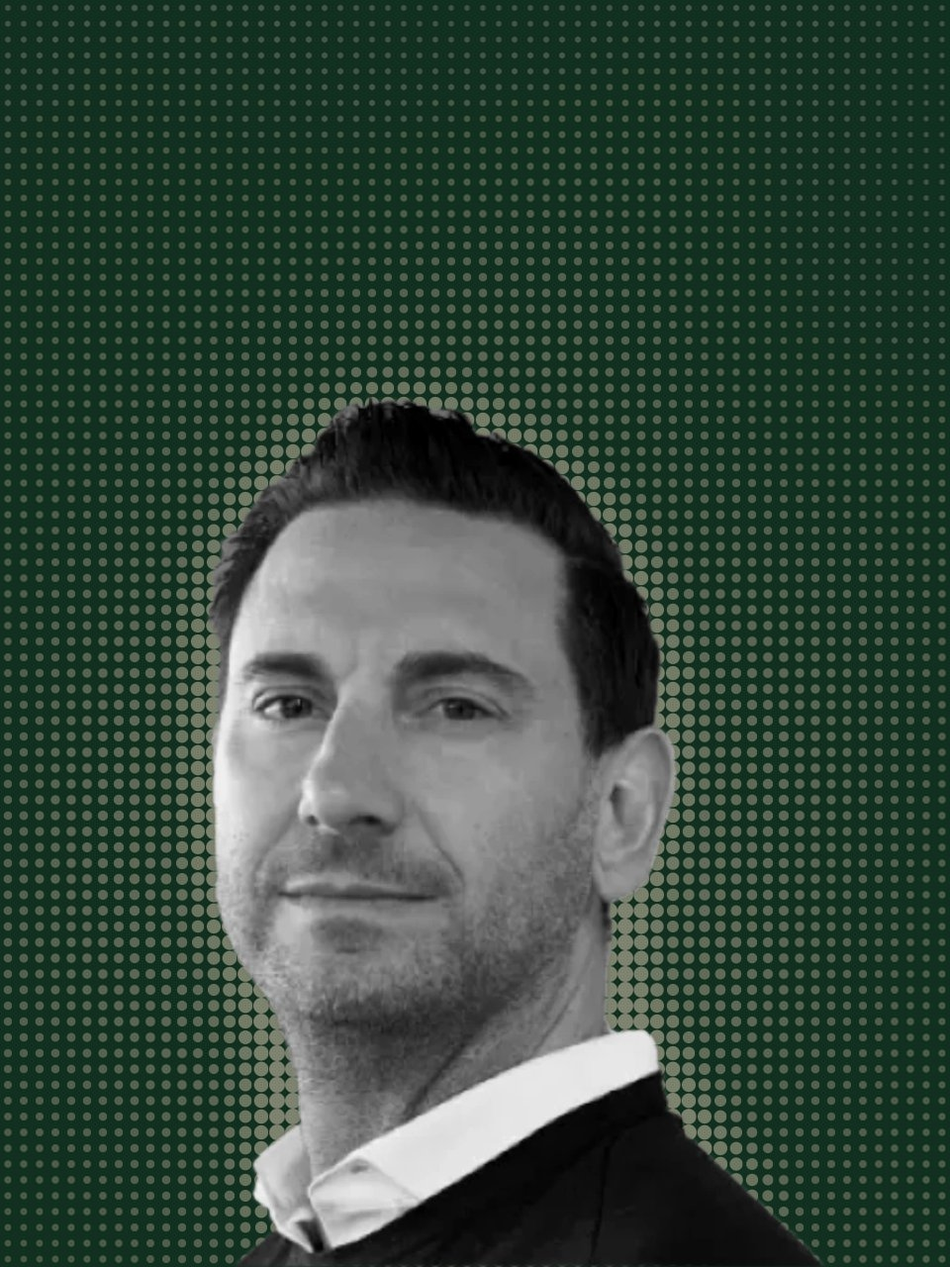
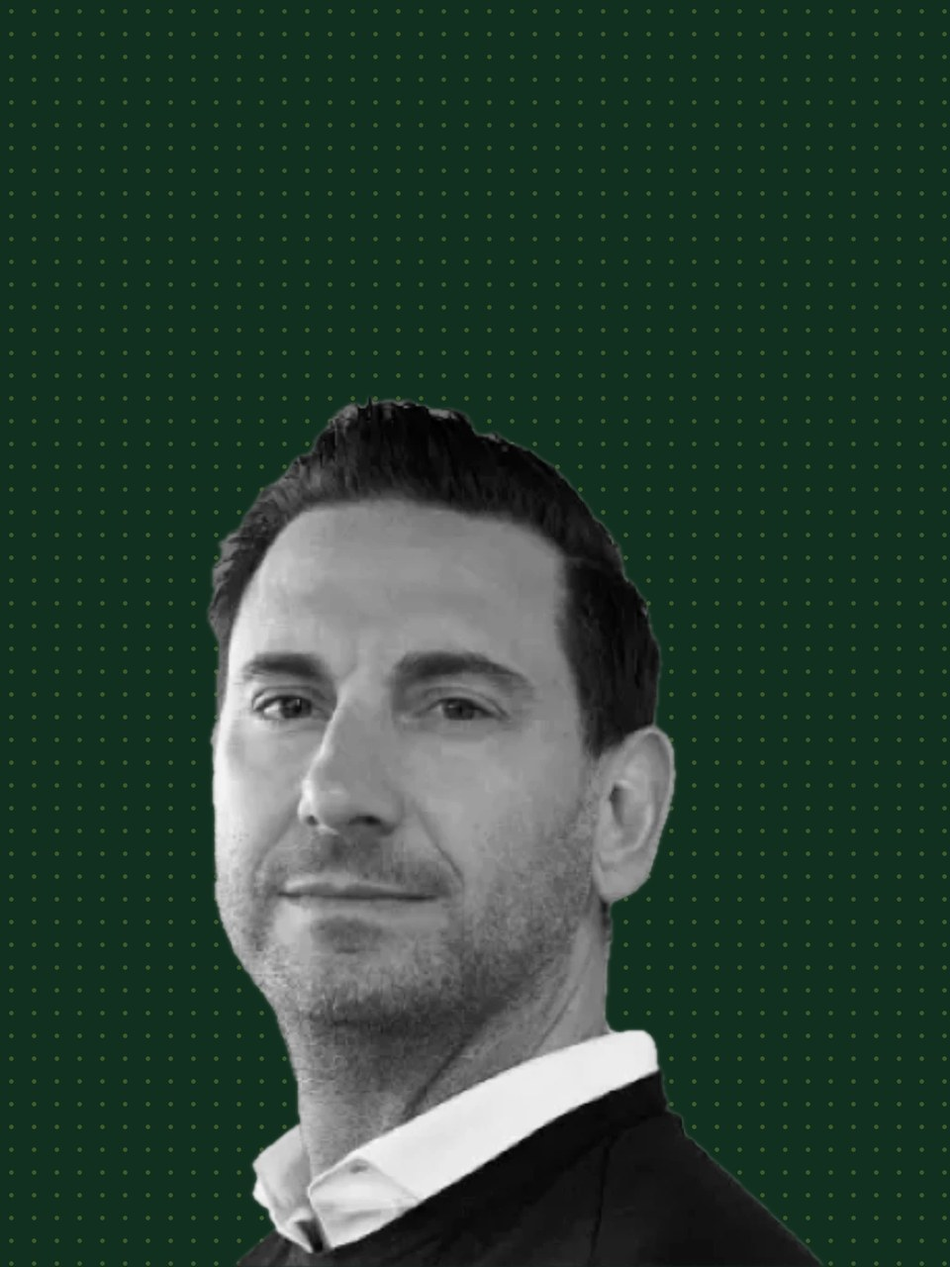
Site pass 9 Nov: lighter dots in team portraits; lit glow keeps last pointer position; hero text entrance on Capital and Prime; finished investment strategy box; Prime founders cards with halftone illustrations; Anthropic breadcrumb and charts in the new chart style

Changed region(s): [[0.0, 0.0, 1.0, 1.0]]

diff --git a/anthropic.html b/anthropic.html
@@ -146,8 +146,17 @@ body{margin:0}
 .white{background:var(--linen);color:var(--green)}.white .lead{color:var(--mute)}
 .illus{display:inline-flex;align-self:flex-start;align-items:center;gap:8px;padding:6px 12px;border:1px dashed var(--rust);border-radius:999px;font:500 12px/1 var(--sans);letter-spacing:.04em;text-transform:uppercase;color:var(--rust)}
 .green .illus,#sector .illus{border-color:#DE8582;color:#DE8582}
-.crumb{font:500 13px/1 var(--sans);letter-spacing:.06em;text-transform:uppercase;color:var(--sand)}
-.crumb a{color:inherit;text-decoration:none}.crumb a:hover{color:var(--linen)}
+/* breadcrumb: pinned to the top of the hero copy column; links turn SL Yellow and draw an underline on hover */
+.hero__body{position:relative}
+.crumb{position:absolute;top:128px;left:max(64px,env(safe-area-inset-left,0px));display:flex;align-items:center;gap:10px;margin:0;padding:0;list-style:none;font:500 13px/1 var(--sans);letter-spacing:.06em;text-transform:uppercase;color:var(--sand)}
+.crumb li{display:flex;align-items:center;gap:10px}
+.crumb li+li::before{content:"/";color:rgba(245,243,239,.35)}
+.crumb a{position:relative;color:inherit;text-decoration:none;padding:4px 0;transition:color .25s ease}
+.crumb a::after{content:"";position:absolute;left:0;right:0;bottom:0;height:1px;background:var(--yel);transform:scaleX(0);transform-origin:left;transition:transform .35s cubic-bezier(.2,.7,.2,1)}
+.crumb a:hover,.crumb a:focus-visible{color:var(--yel)}
+.crumb a:hover::after,.crumb a:focus-visible::after{transform:scaleX(1)}
+.crumb [aria-current]{color:var(--linen)}
+@media (max-width:900px){.crumb{top:108px;left:20px}}
 
 /* hero card */
 .hero__media{background:#12301F}
@@ -176,16 +185,21 @@ body{margin:0}
 /* charts */
 .chart-wrap{display:grid;grid-template-columns:minmax(0,7fr) minmax(0,5fr);gap:56px;align-items:start}
 .chart{background:linear-gradient(rgba(203,191,168,.3),rgba(203,191,168,.3)) #F5F3EF;border:1px solid rgba(122,132,98,.35);border-radius:12px;padding:28px 28px 20px}
-.light .chart{background:linear-gradient(rgba(203,191,168,.3),rgba(203,191,168,.3)) #F5F3EF}
-.white .chart{background:var(--linen)}
+.light .chart{background:#FFFFFF;border-color:rgba(18,48,31,.12)}
+.white .chart{background:#FFFFFF;border-color:rgba(18,48,31,.12)}
 .chart h4{font:500 15px/1.3 var(--sans);margin:0 0 18px;color:var(--mute)}
+/* chart guide (9 Nov): eyebrow names the measure, the headline states the finding, a source line closes */
+.chart .clab{display:block;font:500 11px/16px var(--sans);letter-spacing:.07em;text-transform:uppercase;color:var(--mute)}
+.chart .cfind{font:400 26px/1.15 var(--serif);margin:6px 0 20px;color:var(--green)}
+.chart .csrc{font-size:12px;color:var(--mute);margin-top:12px}
+.sector .chart .clab,.sector .chart .csrc{color:rgba(245,243,239,.6)}.sector .chart .cfind{color:var(--linen)}
 .chart svg{display:block;width:100%;height:auto;overflow:visible}
 .chart .ax{stroke:rgba(18,48,31,.15);stroke-width:1}
 .chart .lb{font:500 12px var(--sans);fill:var(--mute)}
 .chart .vl{font:400 15px var(--serif);fill:var(--green)}
-.bar{fill:#DE8582;transition:fill .2s}
-.bar.hi{fill:#A14E2B}
-.bar:hover,.bar.on{fill:#77581C}
+.bar{transition:opacity .2s}
+.hov .bar:not(.on){opacity:.35}
+.hov .vl:not(.on){opacity:.35;transition:opacity .2s}
 .grow{transform-box:fill-box;transform-origin:bottom;transform:scaleY(0);transition:transform 1.1s cubic-bezier(.2,.7,.2,1);transition-delay:calc(var(--i)*120ms)}
 .seen .grow{transform:none}
 .drawl{stroke-dasharray:1;stroke-dashoffset:1;transition:stroke-dashoffset 1.8s cubic-bezier(.4,0,.2,1) .2s}
@@ -211,21 +225,21 @@ body{margin:0}
 .sector .chart .ax{stroke:rgba(245,243,239,.15)}
 .sector .chart .lb{fill:var(--sand)}
 .sector .chart .vl{fill:var(--linen)}
-.sector .bar{fill:#DE8582}.sector .bar.hi{fill:#ECAC5F}.sector .bar:hover{fill:#E9D574}
+
 
 /* phase 2 */
 .p2head{display:flex;flex-wrap:wrap;align-items:center;gap:14px;margin-bottom:48px}
 .p2head .t{flex:0 0 100%;margin:0}
 .tag{display:inline-block;align-self:flex-start;padding:6px 12px;border-radius:999px;background:rgba(18,48,31,.1);color:var(--green);font:500 12px/1 var(--sans);letter-spacing:.04em;text-transform:uppercase}
 .p2{display:grid;grid-template-columns:repeat(3,minmax(0,1fr));gap:28px}
-.p2box{background:linear-gradient(rgba(203,191,168,.3),rgba(203,191,168,.3)) #F5F3EF;border:1px solid rgba(122,132,98,.35);border-radius:12px;padding:28px;display:flex;flex-direction:column;gap:16px}
+.p2box{background:#FFFFFF;border:1px solid rgba(18,48,31,.12);border-radius:12px;padding:28px;display:flex;flex-direction:column;gap:16px}
 .p2box h3{font:400 28px/1.15 var(--serif)}
 .p2box dl{margin:0}
 .p2box dl div{display:flex;justify-content:space-between;padding:10px 0;font-size:15.5px}
 .p2box dt{color:var(--mute)}.p2box dd{margin:0}
-.split-bar{display:flex;height:44px;border-radius:6px;overflow:hidden}
+.split-bar{display:flex;gap:2px;height:44px}
 .split-bar span{display:grid;place-items:center;font:500 14px var(--sans);transition:flex-grow 1.2s cubic-bezier(.2,.7,.2,1)}
-.split-bar .b{background:var(--yel);color:var(--on-yel);flex-grow:1}.split-bar .s{background:var(--green);color:var(--linen);flex-grow:1}
+.split-bar span{border-radius:4px}.split-bar .b{background:#DE8582;color:var(--green);flex-grow:1}.split-bar .s{background:#A14E2B;color:var(--linen);flex-grow:1}
 .seen .split-bar .b{flex-grow:62}.seen .split-bar .s{flex-grow:38}
 .p2box .acts{display:flex;gap:12px;margin-top:auto}
 .btn-g{background:var(--green);border-color:var(--green);color:var(--linen)}.btn-g:hover{box-shadow:0 0 0 4px rgba(18,48,31,.14)}
@@ -293,7 +307,7 @@ a.btn{text-decoration:none}
   <!-- 1. Hero: copy left; right, an AI halftone with the company card on it -->
   <section class="hero">
     <div class="hero__body">
-      <span class="crumb"><a href="companies.html#directory">Companies</a> / <a href="companies.html#directory">AI</a> / Anthropic</span>
+      <nav aria-label="Breadcrumb"><ol class="crumb"><li><a href="companies.html">Companies</a></li><li><a href="companies.html#directory">AI</a></li><li><span aria-current="page">Anthropic</span></li></ol></nav>
       <h1>Own Anthropic, before it goes public.</h1>
       <p class="lead">Get introduced to existing holders of Anthropic interests. Introductions are limited to qualified participants, and close when the company lists.</p>
       <div class="hero__act"><a class="btn btn-o" href="#funding">See the funding history</a></div>
@@ -329,7 +343,7 @@ a.btn{text-decoration:none}
     <div class="wrap">
       <div class="head"><div style="display:flex;flex-direction:column;gap:16px"><span class="illus">Illustrative figures, not real data</span><h2 class="t" style="margin:0">Funding history</h2></div><p class="lead">Rounds as publicly reported. Amounts and lead investors from public sources.</p></div>
       <div class="chart-wrap" data-seen>
-        <div class="chart"><h4>Amount raised per round</h4><svg viewBox="0 -10 600 320" role="img" aria-label="Illustrative chart" id="fundChart"><line class="ax" x1="0" y1="280" x2="600" y2="280"/><g data-i="0"><rect class="bar grow" style="--i:0" x="35.5" y="272.2" width="65.0" height="7.8" rx="3"><title>A · 2021: $124M</title></rect><text class="vl fade" x="68.0" y="262.2" text-anchor="middle">$124M</text><text class="lb" x="68.0" y="302" text-anchor="middle">A · 2021</text></g><g data-i="1"><rect class="bar grow" style="--i:1" x="151.5" y="243.6" width="65.0" height="36.4" rx="3"><title>B · 2022: $580M</title></rect><text class="vl fade" x="184.0" y="233.6" text-anchor="middle">$580M</text><text class="lb" x="184.0" y="302" text-anchor="middle">B · 2022</text></g><g data-i="2"><rect class="bar grow" style="--i:2" x="267.5" y="251.8" width="65.0" height="28.2" rx="3"><title>C · 2023: $450M</title></rect><text class="vl fade" x="300.0" y="241.8" text-anchor="middle">$450M</text><text class="lb" x="300.0" y="302" text-anchor="middle">C · 2023</text></g><g data-i="3"><rect class="bar grow" style="--i:3" x="383.5" y="232.9" width="65.0" height="47.1" rx="3"><title>D · 2024: $750M</title></rect><text class="vl fade" x="416.0" y="222.9" text-anchor="middle">$750M</text><text class="lb" x="416.0" y="302" text-anchor="middle">D · 2024</text></g><g data-i="4"><rect class="bar grow hi" style="--i:4" x="499.5" y="60.4" width="65.0" height="219.6" rx="3"><title>E · 2025: $3.5B</title></rect><text class="vl fade" x="532.0" y="50.4" text-anchor="middle">$3.5B</text><text class="lb" x="532.0" y="302" text-anchor="middle">E · 2025</text></g></svg></div>
+        <div class="chart"><span class="clab">Funding · Amount raised per round</span><h4 class="cfind">Series E was larger than every earlier round combined</h4><svg viewBox="0 -10 600 320" role="img" aria-label="Illustrative chart" id="fundChart"><line class="ax" x1="0" y1="280" x2="600" y2="280"/><g data-i="0"><path class="bar grow" style="--i:0;fill:#DE8582" d="M35.5,280.0V276.2Q35.5,272.2 39.5,272.2H96.5Q100.5,272.2 100.5,276.2V280.0Z"><title>A · 2021: $124M</title></path><text class="vl fade" x="68.0" y="262.2" text-anchor="middle">$124M</text><text class="lb" x="68.0" y="302" text-anchor="middle">A · 2021</text></g><g data-i="1"><path class="bar grow" style="--i:1;fill:#A14E2B" d="M151.5,280.0V247.6Q151.5,243.6 155.5,243.6H212.5Q216.5,243.6 216.5,247.6V280.0Z"><title>B · 2022: $580M</title></path><text class="vl fade" x="184.0" y="233.6" text-anchor="middle">$580M</text><text class="lb" x="184.0" y="302" text-anchor="middle">B · 2022</text></g><g data-i="2"><path class="bar grow" style="--i:2;fill:#ECAC5F" d="M267.5,280.0V255.8Q267.5,251.8 271.5,251.8H328.5Q332.5,251.8 332.5,255.8V280.0Z"><title>C · 2023: $450M</title></path><text class="vl fade" x="300.0" y="241.8" text-anchor="middle">$450M</text><text class="lb" x="300.0" y="302" text-anchor="middle">C · 2023</text></g><g data-i="3"><path class="bar grow" style="--i:3;fill:#77581C" d="M383.5,280.0V236.9Q383.5,232.9 387.5,232.9H444.5Q448.5,232.9 448.5,236.9V280.0Z"><title>D · 2024: $750M</title></path><text class="vl fade" x="416.0" y="222.9" text-anchor="middle">$750M</text><text class="lb" x="416.0" y="302" text-anchor="middle">D · 2024</text></g><g data-i="4"><path class="bar grow" style="--i:4;fill:#E9D574" d="M499.5,280.0V64.4Q499.5,60.4 503.5,60.4H560.5Q564.5,60.4 564.5,64.4V280.0Z"><title>E · 2025: $3.5B</title></path><text class="vl fade" x="532.0" y="50.4" text-anchor="middle">$3.5B</text><text class="lb" x="532.0" y="302" text-anchor="middle">E · 2025</text></g></svg><p class="csrc">Source: public reports. Illustrative.</p></div>
         <ol class="rounds" id="rounds"><li data-i="4"><span class="d">Mar 2025</span><div><h3>Series E</h3><p>Led by [investor]</p></div><span class="amt">$3.5B</span></li><li data-i="3"><span class="d">Feb 2024</span><div><h3>Series D</h3><p>Led by [investor]</p></div><span class="amt">$750M</span></li><li data-i="2"><span class="d">May 2023</span><div><h3>Series C</h3><p>Led by [investor]</p></div><span class="amt">$450M</span></li><li data-i="1"><span class="d">Apr 2022</span><div><h3>Series B</h3><p>Led by [investor]</p></div><span class="amt">$580M</span></li><li data-i="0"><span class="d">May 2021</span><div><h3>Series A</h3><p>Led by [investor]</p></div><span class="amt">$124M</span></li></ol>
       </div>
     </div>
@@ -346,7 +360,7 @@ a.btn{text-decoration:none}
         <div class="comps"><span>Comparable listed companies</span><b>NVDA · MSFT · GOOGL</b></div>
         <a class="alink" href="index.html#insights">Read the AI sector report</a>
       </div>
-      <div class="chart" data-seen><span class="illus" style="margin-bottom:16px">Illustrative figures</span><h4>Global AI infrastructure spend, $ billion</h4><svg viewBox="0 -10 560 300" role="img" aria-label="Illustrative chart" id=""><line class="ax" x1="0" y1="260" x2="560" y2="260"/><g data-i="0"><rect class="bar grow" style="--i:0" x="33.8" y="213.4" width="60.5" height="46.6" rx="3"><title>2022: $120B</title></rect><text class="vl fade" x="64.0" y="203.4" text-anchor="middle">$120B</text><text class="lb" x="64.0" y="282" text-anchor="middle">2022</text></g><g data-i="1"><rect class="bar grow" style="--i:1" x="141.8" y="186.3" width="60.5" height="73.7" rx="3"><title>2023: $190B</title></rect><text class="vl fade" x="172.0" y="176.3" text-anchor="middle">$190B</text><text class="lb" x="172.0" y="282" text-anchor="middle">2023</text></g><g data-i="2"><rect class="bar grow" style="--i:2" x="249.8" y="151.3" width="60.5" height="108.7" rx="3"><title>2024: $280B</title></rect><text class="vl fade" x="280.0" y="141.3" text-anchor="middle">$280B</text><text class="lb" x="280.0" y="282" text-anchor="middle">2024</text></g><g data-i="3"><rect class="bar grow" style="--i:3" x="357.8" y="108.7" width="60.5" height="151.3" rx="3"><title>2025: $390B</title></rect><text class="vl fade" x="388.0" y="98.7" text-anchor="middle">$390B</text><text class="lb" x="388.0" y="282" text-anchor="middle">2025</text></g><g data-i="4"><rect class="bar grow hi" style="--i:4" x="465.8" y="58.2" width="60.5" height="201.8" rx="3"><title>2026: $520B</title></rect><text class="vl fade" x="496.0" y="48.2" text-anchor="middle">$520B</text><text class="lb" x="496.0" y="282" text-anchor="middle">2026</text></g></svg></div>
+      <div class="chart" data-seen><span class="illus" style="margin-bottom:16px">Illustrative figures</span><span class="clab">Global AI infrastructure spend, $ billion</span><h4 class="cfind">Spend has more than quadrupled since 2022</h4><svg viewBox="0 -10 560 300" role="img" aria-label="Illustrative chart" id="sectorChart"><line class="ax" x1="0" y1="260" x2="560" y2="260"/><g data-i="0"><path class="bar grow" style="--i:0;fill:#DE8582" d="M33.8,260.0V217.4Q33.8,213.4 37.8,213.4H90.3Q94.3,213.4 94.3,217.4V260.0Z"><title>2022: $120B</title></path><text class="vl fade" x="64.0" y="203.4" text-anchor="middle">$120B</text><text class="lb" x="64.0" y="282" text-anchor="middle">2022</text></g><g data-i="1"><path class="bar grow" style="--i:1;fill:#A14E2B" d="M141.8,260.0V190.3Q141.8,186.3 145.8,186.3H198.3Q202.3,186.3 202.3,190.3V260.0Z"><title>2023: $190B</title></path><text class="vl fade" x="172.0" y="176.3" text-anchor="middle">$190B</text><text class="lb" x="172.0" y="282" text-anchor="middle">2023</text></g><g data-i="2"><path class="bar grow" style="--i:2;fill:#ECAC5F" d="M249.8,260.0V155.3Q249.8,151.3 253.8,151.3H306.3Q310.3,151.3 310.3,155.3V260.0Z"><title>2024: $280B</title></path><text class="vl fade" x="280.0" y="141.3" text-anchor="middle">$280B</text><text class="lb" x="280.0" y="282" text-anchor="middle">2024</text></g><g data-i="3"><path class="bar grow" style="--i:3;fill:#77581C" d="M357.8,260.0V112.7Q357.8,108.7 361.8,108.7H414.3Q418.3,108.7 418.3,112.7V260.0Z"><title>2025: $390B</title></path><text class="vl fade" x="388.0" y="98.7" text-anchor="middle">$390B</text><text class="lb" x="388.0" y="282" text-anchor="middle">2025</text></g><g data-i="4"><path class="bar grow" style="--i:4;fill:#E9D574" d="M465.8,260.0V62.2Q465.8,58.2 469.8,58.2H522.3Q526.3,58.2 526.3,62.2V260.0Z"><title>2026: $520B</title></path><text class="vl fade" x="496.0" y="48.2" text-anchor="middle">$520B</text><text class="lb" x="496.0" y="282" text-anchor="middle">2026</text></g></svg><p class="csrc">Source: SecondLane estimates. Illustrative.</p></div>
     </div>
   </section>
 
@@ -355,7 +369,7 @@ a.btn{text-decoration:none}
     <div class="wrap">
       <div class="p2head"><span class="tag">After the license</span><span class="illus">Illustrative figures, not real data</span><h2 class="t">Indicative pricing and current interest</h2></div>
       <div class="p2" data-seen>
-        <div class="p2box"><span class="tag">Phase 2</span><h3>Indicative pricing</h3><svg viewBox="0 -6 360 200" role="img" aria-label="Illustrative price index"><line class="ax" x1="0" y1="146.9" x2="360" y2="146.9" stroke-dasharray="4 4"/><text class="lb" x="360" y="140.9" text-anchor="end">Last round = 100</text><path class="drawl" pathLength="1" d="M10.0 146.9 L78.0 123.8 L146.0 129.6 L214.0 95.0 L282.0 77.7 L350.0 43.1" fill="none" stroke="#12301F" stroke-width="2.5" stroke-linejoin="round" stroke-linecap="round"/><text class="lb" x="10.0" y="192" text-anchor="middle">May</text><text class="lb" x="78.0" y="192" text-anchor="middle">Jun</text><text class="lb" x="146.0" y="192" text-anchor="middle">Jul</text><text class="lb" x="214.0" y="192" text-anchor="middle">Aug</text><text class="lb" x="282.0" y="192" text-anchor="middle">Sep</text><text class="lb" x="350.0" y="192" text-anchor="middle">Oct</text><circle class="pt" cx="350.0" cy="43.1" r="5"/><text class="vl pt" x="342.0" y="31.1" text-anchor="end">118</text></svg></div>
+        <div class="p2box"><span class="tag">Phase 2</span><h3>Indicative pricing</h3><svg viewBox="0 -6 360 200" role="img" aria-label="Illustrative price index"><line x1="0" y1="146.9" x2="360" y2="146.9" stroke="rgba(18,48,31,.4)" stroke-dasharray="3 4"/><text class="lb" x="360" y="164" text-anchor="end">Last round = 100</text><path class="drawl" pathLength="1" d="M10.0 146.9 L78.0 123.8 L146.0 129.6 L214.0 95.0 L282.0 77.7 L350.0 43.1" fill="none" stroke="#A14E2B" stroke-width="2" stroke-linejoin="round" stroke-linecap="round"/><text class="lb" x="2" y="192" text-anchor="start">May</text><text class="lb" x="78.0" y="192" text-anchor="middle">Jun</text><text class="lb" x="146.0" y="192" text-anchor="middle">Jul</text><text class="lb" x="214.0" y="192" text-anchor="middle">Aug</text><text class="lb" x="282.0" y="192" text-anchor="middle">Sep</text><text class="lb" x="358" y="192" text-anchor="end">Oct</text><circle class="pt" cx="350.0" cy="43.1" r="4" stroke="#FFFFFF" stroke-width="2"/><text class="vl pt" x="342.0" y="31.1" text-anchor="end">118</text></svg><p class="csrc" style="font-size:12px;color:var(--mute)">Price index, last round = 100. Illustrative.</p></div>
         <div class="p2box"><span class="tag">Phase 2</span><h3>Current buy and sell interest</h3>
           <div class="split-bar"><span class="b">62%</span><span class="s">38%</span></div>
           <dl><div><dt>Buy-side indications</dt><dd>28</dd></div><div><dt>Sell-side indications</dt><dd>17</dd></div><div><dt>Updated</dt><dd>[date]</dd></div></dl></div>
@@ -428,7 +442,12 @@ a.btn{text-decoration:none}
   else { var io=new IntersectionObserver(function(es){ es.forEach(function(e){ if(e.isIntersecting){ e.target.classList.add('seen'); io.unobserve(e.target);} }); },{threshold:.35}); els.forEach(function(e){io.observe(e);}); }
   /* funding: a bar and its round row light together */
   var bars=[].slice.call(document.querySelectorAll('#fundChart .bar')), rows=[].slice.call(document.querySelectorAll('#rounds li'));
-  function hl(i){ bars.forEach(function(b,k){b.classList.toggle('on',k===i);}); rows.forEach(function(r){r.classList.toggle('on',+r.dataset.i===i);}); }
+  var fsvg=document.getElementById('fundChart'), vls=[].slice.call(fsvg.querySelectorAll('.vl'));
+  function hl(i){ fsvg.classList.toggle('hov',i>=0); bars.forEach(function(b,k){b.classList.toggle('on',k===i);}); vls.forEach(function(v,k){v.classList.toggle('on',k===i);}); rows.forEach(function(r){r.classList.toggle('on',+r.dataset.i===i);}); }
+  /* sector chart: the bar under the pointer stays, the rest dim */
+  var ssvg=document.getElementById('sectorChart'); if(ssvg){ var sb=[].slice.call(ssvg.querySelectorAll('.bar')), sv=[].slice.call(ssvg.querySelectorAll('.vl'));
+    sb.forEach(function(b,i){ b.addEventListener('pointerenter',function(){ ssvg.classList.add('hov'); sb.forEach(function(o,k){o.classList.toggle('on',k===i);}); sv.forEach(function(o,k){o.classList.toggle('on',k===i);}); });
+      b.addEventListener('pointerleave',function(){ ssvg.classList.remove('hov'); }); }); }
   bars.forEach(function(b,i){ b.addEventListener('pointerenter',function(){hl(i);}); b.addEventListener('pointerleave',function(){hl(-1);}); });
   rows.forEach(function(r){ r.addEventListener('pointerenter',function(){hl(+r.dataset.i);}); r.addEventListener('pointerleave',function(){hl(-1);}); });
   /* hero: the lighter dot field over the image (as on Access): 0.85px SL Yellow at 21.6%, brighter near the pointer, size fixed */

diff --git a/capital.html b/capital.html
@@ -190,6 +190,25 @@ body{margin:0}
 .why__txt p{font-size:17px;line-height:1.6;color:var(--mute);max-width:52ch}
 @media (max-height:820px) and (min-width:901px){.stk__pin{gap:32px;padding-top:100px}.stk__deck,.stk__card{height:380px}.why__txt{padding:36px 44px}.why__txt p{font-size:16px}}
 
+/* hero text entrance (9 Nov): the headline rises word by word, then the copy and actions follow */
+.hx h1 .w{display:inline-block;opacity:0;transform:translateY(.42em);animation:hxw .95s cubic-bezier(.2,.7,.2,1) forwards;animation-delay:calc(var(--d)*55ms + 150ms)}
+.hx>:not(h1):not(nav){opacity:0;animation:hxr .9s cubic-bezier(.2,.7,.2,1) forwards;animation-delay:var(--dl,600ms)}
+@keyframes hxw{to{opacity:1;transform:none}}
+@keyframes hxr{from{opacity:0;transform:translateY(16px)}to{opacity:1;transform:none}}
+@media (prefers-reduced-motion:reduce){.hx h1 .w,.hx>*{opacity:1!important;transform:none!important;animation:none!important}}
+
+/* investment strategy (9 Nov): finished look; copy still in draft, so a small tag says so */
+.draft{display:inline-flex;align-items:center;gap:8px;padding:6px 12px;border:1px dashed var(--rust);border-radius:999px;font:500 12px/1 var(--sans);letter-spacing:.04em;text-transform:uppercase;color:var(--rust);margin-bottom:18px}
+.strat .barbell__bar b,.strat .barbell__bar u{transform:scaleX(0);transition:transform 1s cubic-bezier(.2,.7,.2,1)}
+.strat .barbell__bar b:first-child{transform-origin:left}.strat .barbell__bar u{transform-origin:left;transition-delay:.35s}.strat .barbell__bar b:last-child{transform-origin:right;transition-delay:.6s}
+.strat.seen .barbell__bar b,.strat.seen .barbell__bar u{transform:none}
+.strat .barbell__bar b:last-child{background:var(--rust)}
+.track{box-shadow:0 20px 50px rgba(18,48,31,.12)}
+.track .lab{color:var(--yel)}
+.track dl div+div{border-top:1px solid rgba(245,243,239,.14)}
+.track dl div:first-child{border-top:1px solid rgba(245,243,239,.14)}
+@media (prefers-reduced-motion:reduce){.strat .barbell__bar b,.strat .barbell__bar u{transform:none}}
+
 /* shared site nav: six links */
 .nav__sign{white-space:nowrap}.nav__links{gap:clamp(18px,2.2vw,36px)}.nav .wrap{gap:clamp(20px,3vw,44px)}
 
@@ -229,10 +248,10 @@ a.btn{text-decoration:none}
   </section>
 
   <!-- 2. Investment strategy and track record -->
-  <section class="sec light wip" id="strategy">
-    <div class="wip__tag" role="note"><b>Work in progress</b><span>Investment strategy is still being written. Layout and copy will change.</span></div>
+  <section class="sec light" id="strategy">
     <div class="wrap strat">
       <div>
+        <span class="draft">Draft copy</span>
         <h2 class="t">Investment strategy</h2>
         <p class="lead" style="margin-top:24px">A barbell approach, targeting assets we believe are mispriced relative to their fundamentals, where a liquidity event may be nearer than the market assumes. It pairs higher-conviction positions with disciplined risk mitigation across pre-IPO and secondaries, so each mandate stays balanced through the cycle.</p>
         <div class="barbell" aria-hidden="true"><div class="barbell__bar"><b></b><u></u><b></b></div><div class="barbell__lab"><span>Higher-conviction positions</span><span>Disciplined risk mitigation</span></div></div>
@@ -304,7 +323,8 @@ a.btn{text-decoration:none}
 <script>
 (function(){
   var nav=document.getElementById('nav');
-  document.querySelectorAll('.lit').forEach(function(el){ el.addEventListener('pointermove',function(e){ var r=el.getBoundingClientRect(); el.style.setProperty('--mx',(e.clientX-r.left)+'px'); el.style.setProperty('--my',(e.clientY-r.top)+'px'); }); el.addEventListener('pointerleave',function(){ el.style.removeProperty('--mx'); el.style.removeProperty('--my'); }); });
+  /* lit edge: the glow follows the pointer and stays where it left (no reset on leave) */
+  document.querySelectorAll('.lit').forEach(function(el){ el.addEventListener('pointermove',function(e){ var r=el.getBoundingClientRect(); el.style.setProperty('--mx',(e.clientX-r.left)+'px'); el.style.setProperty('--my',(e.clientY-r.top)+'px'); }); });
   function stick(){ nav.classList.toggle('stuck',scrollY>40); } addEventListener('scroll',stick,{passive:true}); stick();
   /* why Capital: progress through the pinned section drives each card from below into the stack.
      Eased toward the target each frame, so the motion lags a little behind the wheel and feels weighted. */
@@ -328,6 +348,25 @@ a.btn{text-decoration:none}
   addEventListener('scroll',target,{passive:true}); addEventListener('resize',target); target(); cur=tgt;
   if(reduce) paint(1); frame();
 
+})();
+</script>
+<script>
+/* hero text entrance: split the headline into words; the rest follows once the last word is up */
+(function(){
+  var b=document.querySelector('.hero__body'); if(!b) return; var h=b.querySelector('h1'); if(!h) return;
+  var words=h.textContent.trim().split(/\s+/); h.setAttribute('aria-label',h.textContent.trim());
+  h.innerHTML=words.map(function(w,i){return '<span class="w" aria-hidden="true" style="--d:'+i+'">'+w+'</span>';}).join(' ');
+  var t=150+words.length*55+260; [].slice.call(b.children).forEach(function(c){ if(c.tagName!=='H1'&&c.tagName!=='NAV'){ c.style.setProperty('--dl',t+'ms'); t+=130; } });
+  b.classList.add('hx');
+})();
+</script>
+<script>
+/* investment strategy: barbell draws in and the track record counts up the first time it is on screen */
+(function(){
+  var st=document.querySelector('.strat'); if(!st) return; var fig=st.querySelector('.track .fig'), end=77, red=matchMedia('(prefers-reduced-motion: reduce)').matches;
+  function go(){ st.classList.add('seen'); if(red||!fig) return; var t0=performance.now(); (function f(now){ var k=Math.min(1,(now-t0)/1400); k=1-Math.pow(1-k,3); fig.textContent='$'+Math.round(end*k)+'M'; if(k<1) requestAnimationFrame(f); })(t0); }
+  if(!('IntersectionObserver' in window)) return go();
+  var io=new IntersectionObserver(function(es){ if(es[0].isIntersecting){ go(); io.disconnect(); } },{threshold:.4}); io.observe(st);
 })();
 </script>
 <script>

diff --git a/prime.html b/prime.html
@@ -172,6 +172,25 @@ body{margin:0}
 }
 @media (prefers-reduced-motion:reduce){*,*::before,*::after{animation:none !important;transition-duration:1ms !important}}
 
+/* hero text entrance (9 Nov): the headline rises word by word, then the copy and actions follow */
+.hx h1 .w{display:inline-block;opacity:0;transform:translateY(.42em);animation:hxw .95s cubic-bezier(.2,.7,.2,1) forwards;animation-delay:calc(var(--d)*55ms + 150ms)}
+.hx>:not(h1):not(nav){opacity:0;animation:hxr .9s cubic-bezier(.2,.7,.2,1) forwards;animation-delay:var(--dl,600ms)}
+@keyframes hxw{to{opacity:1;transform:none}}
+@keyframes hxr{from{opacity:0;transform:translateY(16px)}to{opacity:1;transform:none}}
+@media (prefers-reduced-motion:reduce){.hx h1 .w,.hx>*{opacity:1!important;transform:none!important;animation:none!important}}
+
+/* founders (9 Nov): same card as Capital's "Why SecondLane Capital": halftone illustration left, number and copy right */
+.stk__deck{width:min(1152px,100%);height:420px}
+.stk__card{grid-template-columns:minmax(0,5fr) minmax(0,6fr);gap:0;align-items:stretch;padding:0;height:420px;border-radius:12px;overflow:hidden}
+.why__img{position:relative;background:#12301F}
+.why__img img{position:absolute;inset:0;width:100%;height:100%;object-fit:cover}
+.why__txt{padding:48px 56px;display:flex;flex-direction:column;justify-content:center;gap:16px}
+.why__txt .n{font:300 56px/1 var(--serif);color:var(--yel)}
+.why__txt h3{font:400 40px/1.1 var(--serif)}
+.why__txt p{font-size:17px;line-height:1.6;color:var(--sand);margin:0;max-width:52ch}
+@media (max-height:820px) and (min-width:901px){.stk__deck,.stk__card{height:380px}.why__txt{padding:36px 44px}.why__txt p{font-size:16px}}
+@media (max-width:900px){.stk__card{grid-template-columns:minmax(0,1fr);height:auto;padding:0}.why__img{aspect-ratio:4/3}.why__txt{padding:28px 22px}.why__txt h3{font-size:30px}.why__txt .n{font-size:44px}}
+
 /* shared site nav: six links */
 .nav__sign{white-space:nowrap}.nav__links{gap:clamp(18px,2.2vw,36px)}.nav .wrap{gap:clamp(20px,3vw,44px)}
 
@@ -217,10 +236,10 @@ a.btn{text-decoration:none}
         <p class="lead">Liquidity on your terms, timed around the moments that matter for the company.</p>
       </div>
       <ol class="stk__deck" id="deck">
-          <li class="stk__card" data-i="0"><span class="n">1</span><div><h3>Reduce sell pressure</h3><p>Introduce large sales to verified interested parties instead of the open market, so a single exit never sets your secondary opportunity value.</p></div></li>
-          <li class="stk__card" data-i="1"><span class="n">2</span><div><h3>Stabilize your secondary opportunity value</h3><p>Time and size liquidity around vesting, unlocks and fundraises, so the market keeps its confidence in you.</p></div></li>
-          <li class="stk__card" data-i="2"><span class="n">3</span><div><h3>Retain your best people</h3><p>Give your team a way to turn ownership interest into cash without selling into the open market. Structured employee liquidity, delivered through a compliant tender offer, rewards the people who built the company and makes it far easier to attract and keep talent.</p></div></li>
-          <li class="stk__card" data-i="3"><span class="n">4</span><div><h3>Expand your participant network</h3><p>Bring in institutional participants, family offices and qualified interested parties, and add credibility as well as reach.</p></div></li>
+          <li class="stk__card" data-i="0"><div class="why__img"><img src="assets/htd1.jpg" alt=""></div><div class="why__txt"><span class="n">01</span><h3>Reduce sell pressure</h3><p>Introduce large sales to verified interested parties instead of the open market, so a single exit never sets your secondary opportunity value.</p></div></li>
+          <li class="stk__card" data-i="1"><div class="why__img"><img src="assets/htd2.jpg" alt=""></div><div class="why__txt"><span class="n">02</span><h3>Stabilize your secondary opportunity value</h3><p>Time and size liquidity around vesting, unlocks and fundraises, so the market keeps its confidence in you.</p></div></li>
+          <li class="stk__card" data-i="2"><div class="why__img"><img src="assets/htd4.jpg" alt=""></div><div class="why__txt"><span class="n">03</span><h3>Retain your best people</h3><p>Give your team a way to turn ownership interest into cash without selling into the open market. Structured employee liquidity, delivered through a compliant tender offer, rewards the people who built the company and makes it far easier to attract and keep talent.</p></div></li>
+          <li class="stk__card" data-i="3"><div class="why__img"><img src="assets/htd5.jpg" alt=""></div><div class="why__txt"><span class="n">04</span><h3>Expand your participant network</h3><p>Bring in institutional participants, family offices and qualified interested parties, and add credibility as well as reach.</p></div></li>
       </ol>
     </div>
   </section>
@@ -324,6 +343,16 @@ a.btn{text-decoration:none}
     t.addEventListener('click',function(){pick(t);});
     t.addEventListener('keydown',function(e){ var d=e.key==='ArrowRight'?1:e.key==='ArrowLeft'?-1:0; if(d){ e.preventDefault(); pick(tabs[(i+d+tabs.length)%tabs.length],true); } });
   });
+})();
+</script>
+<script>
+/* hero text entrance: split the headline into words; the rest follows once the last word is up */
+(function(){
+  var b=document.querySelector('.hero__body'); if(!b) return; var h=b.querySelector('h1'); if(!h) return;
+  var words=h.textContent.trim().split(/\s+/); h.setAttribute('aria-label',h.textContent.trim());
+  h.innerHTML=words.map(function(w,i){return '<span class="w" aria-hidden="true" style="--d:'+i+'">'+w+'</span>';}).join(' ');
+  var t=150+words.length*55+260; [].slice.call(b.children).forEach(function(c){ if(c.tagName!=='H1'&&c.tagName!=='NAV'){ c.style.setProperty('--dl',t+'ms'); t+=130; } });
+  b.classList.add('hx');
 })();
 </script>
 <script>

diff --git a/access.html b/access.html
@@ -312,9 +312,9 @@ a.btn{text-decoration:none}
   else { var io1=new IntersectionObserver(function(es){ es.forEach(function(e){ if(e.isIntersecting){ e.target.classList.add('seen'); io1.unobserve(e.target);} }); },{threshold:.6,rootMargin:'0px 0px -18% 0px'}); r1.forEach(function(e){io1.observe(e);}); }
 
   /* lit edges follow the cursor; the join card returns to its top-left glow */
+  /* lit edge: the glow follows the pointer and stays where it left (no reset on leave) */
   document.querySelectorAll('.lit').forEach(function(el){
     el.addEventListener('pointermove',function(e){ var r=el.getBoundingClientRect(); el.style.setProperty('--mx',(e.clientX-r.left)+'px'); el.style.setProperty('--my',(e.clientY-r.top)+'px'); });
-    el.addEventListener('pointerleave',function(){ el.style.removeProperty('--mx'); el.style.removeProperty('--my'); });
   });
 
   /* join form: check, then confirm in place */

diff --git a/index-halftone-tabs.html b/index-halftone-tabs.html
@@ -485,9 +485,9 @@ a.btn{text-decoration:none}
   else { var io=new IntersectionObserver(function(es){ es.forEach(function(e){ if(e.isIntersecting){ e.target.classList.add('seen'); io.unobserve(e.target);} }); },{threshold:.25}); rv.forEach(function(e){io.observe(e);}); }
 
   /* lit edges follow the cursor */
+  /* lit edge: the glow follows the pointer and stays where it left (no reset on leave) */
   document.querySelectorAll('.lit').forEach(function(el){
     el.addEventListener('pointermove',function(e){ var r=el.getBoundingClientRect(); el.style.setProperty('--mx',(e.clientX-r.left)+'px'); el.style.setProperty('--my',(e.clientY-r.top)+'px'); });
-    el.addEventListener('pointerleave',function(){ el.style.removeProperty('--mx'); el.style.removeProperty('--my'); });
   });
 
   /* platform tabs */

diff --git a/index-halftone.html b/index-halftone.html
@@ -464,9 +464,9 @@ a.btn{text-decoration:none}
   else { var io=new IntersectionObserver(function(es){ es.forEach(function(e){ if(e.isIntersecting){ e.target.classList.add('seen'); io.unobserve(e.target);} }); },{threshold:.25}); rv.forEach(function(e){io.observe(e);}); }
 
   /* lit edges follow the cursor */
+  /* lit edge: the glow follows the pointer and stays where it left (no reset on leave) */
   document.querySelectorAll('.lit').forEach(function(el){
     el.addEventListener('pointermove',function(e){ var r=el.getBoundingClientRect(); el.style.setProperty('--mx',(e.clientX-r.left)+'px'); el.style.setProperty('--my',(e.clientY-r.top)+'px'); });
-    el.addEventListener('pointerleave',function(){ el.style.removeProperty('--mx'); el.style.removeProperty('--my'); });
   });
 
   /* platform tabs */

diff --git a/index.html b/index.html
@@ -462,9 +462,9 @@ a.btn{text-decoration:none}
   else { var io=new IntersectionObserver(function(es){ es.forEach(function(e){ if(e.isIntersecting){ e.target.classList.add('seen'); io.unobserve(e.target);} }); },{threshold:.25}); rv.forEach(function(e){io.observe(e);}); }
 
   /* lit edges follow the cursor */
+  /* lit edge: the glow follows the pointer and stays where it left (no reset on leave) */
   document.querySelectorAll('.lit').forEach(function(el){
     el.addEventListener('pointermove',function(e){ var r=el.getBoundingClientRect(); el.style.setProperty('--mx',(e.clientX-r.left)+'px'); el.style.setProperty('--my',(e.clientY-r.top)+'px'); });
-    el.addEventListener('pointerleave',function(){ el.style.removeProperty('--mx'); el.style.removeProperty('--my'); });
   });
 
   /* platform tabs */
